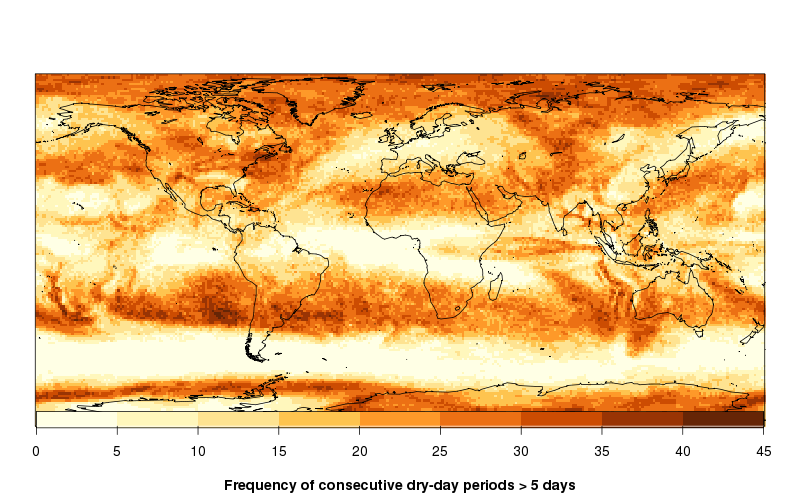
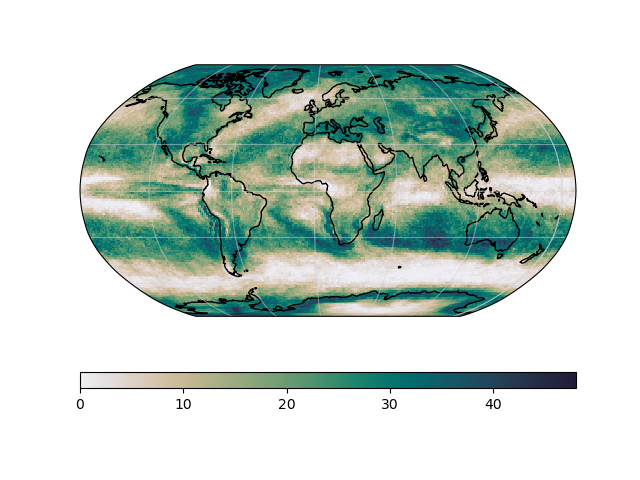
Update plots of consecutive dry days recipe

diff --git a/esmvaltool/diag_scripts/droughtindex/diag_cdd.py b/esmvaltool/diag_scripts/droughtindex/diag_cdd.py
@@ -3,6 +3,7 @@ import logging
 import os
 from copy import deepcopy
 
+import cmocean.cm
 import iris
 import numpy as np
 
@@ -11,7 +12,7 @@ from esmvaltool.diag_scripts.shared import (
     save_data,
     save_figure,
 )
-from esmvaltool.diag_scripts.shared.plot import quickplot
+from esmvaltool.diag_scripts.shared.plot import global_pcolormesh
 
 logger = logging.getLogger(os.path.basename(__file__))
 
@@ -28,9 +29,12 @@ def save_results(cfg, cube, basename, ancestor_files):
         'ancestors': ancestor_files,
     }
     save_data(basename, provenance, cfg, cube)
-    if cfg.get('quickplot'):
-        quickplot(cube, **cfg['quickplot'])
-        save_figure(basename, provenance, cfg)
+    kwargs = dict(cfg.get('plot', {}))
+    cmap_name = kwargs.get('cmap', 'rain')
+    if cmap_name in cmocean.cm.cmap_d:
+        kwargs['cmap'] = cmocean.cm.cmap_d[cmap_name]
+    global_pcolormesh(cube, **kwargs)
+    save_figure(basename, provenance, cfg)
 
 
 def main(cfg):

diff --git a/doc/sphinx/source/recipes/recipe_consecdrydays.rst b/doc/sphinx/source/recipes/recipe_consecdrydays.rst
@@ -40,6 +40,13 @@ User settings in recipe
 
    * frlim: the shortest number of consecutive dry days for entering statistic on frequency of dry periods.
 
+   *Optional settings (script)*
+
+   Under ``plot``:
+
+   * cmap: the name of a colormap. cmocean colormaps are also supported.
+
+   * other matplotlib plot keyword arguments can also be supplied.
 
 Variables
 ---------
